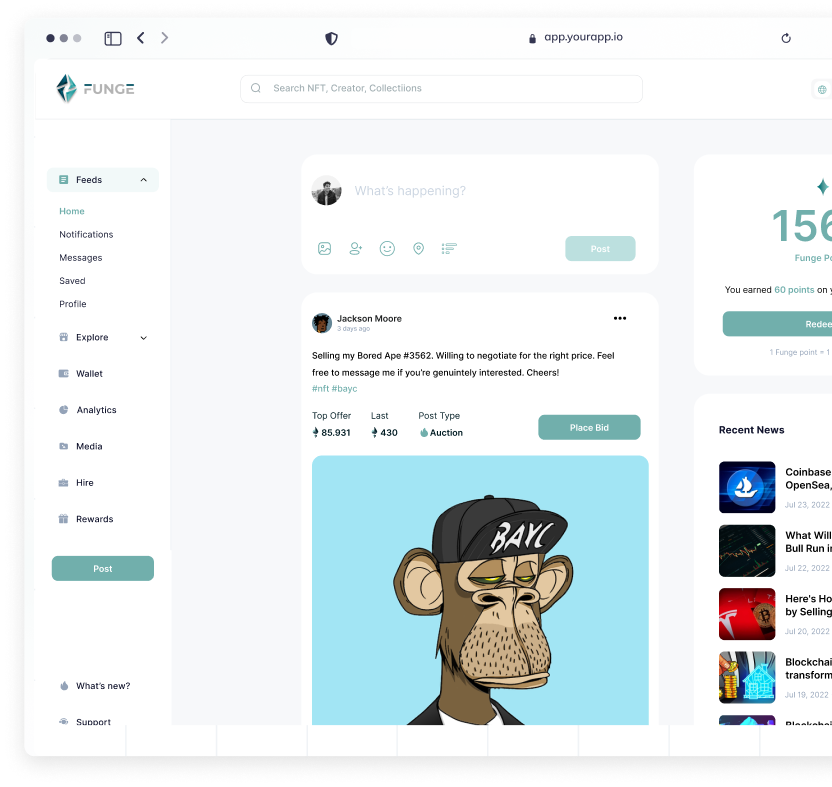
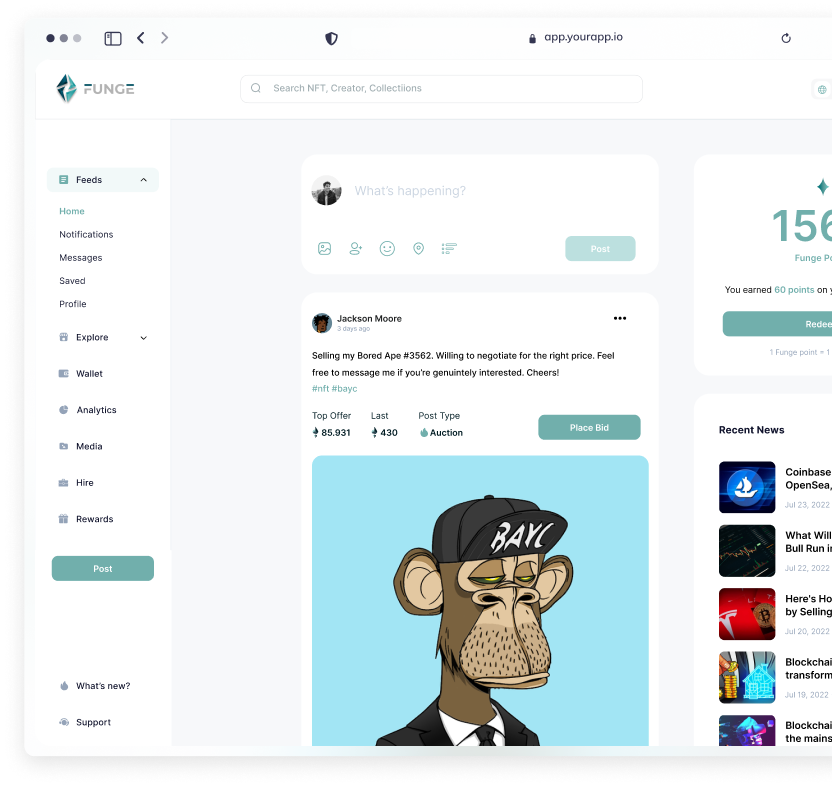
changed main img and added margin top

Changed region(s): [[0.375, 0.9149, 0.7812, 0.9759], [0.8438, 0.9149, 1.0, 0.9454]]

diff --git a/src/components/NewLandingPage/Description.js b/src/components/NewLandingPage/Description.js
@@ -5,10 +5,10 @@ const Description = () => {
   return (
     <Wrapper
       data-aos="fade-up"
-      data-aos-offset="300"
-      data-aos-delay="400"
+      data-aos-offset="400"
       data-aos-duration="1000"
       data-aos-mirror="false"
+      data-aos-once="true"
     >
       <Text>
         <BoldedText>FUNGE </BoldedText>

diff --git a/src/components/NewLandingPage/Entry.js b/src/components/NewLandingPage/Entry.js
@@ -28,7 +28,7 @@ export default Entry;
 const Wrapper = styled.div`
   display: flex;
   align-items: center;
-  padding: 11vw 0 19vw 6vw;
+  padding: 11vw 0 21vw 6vw;
   @media (max-width: 425px) {
     flex-direction: column;
   }
